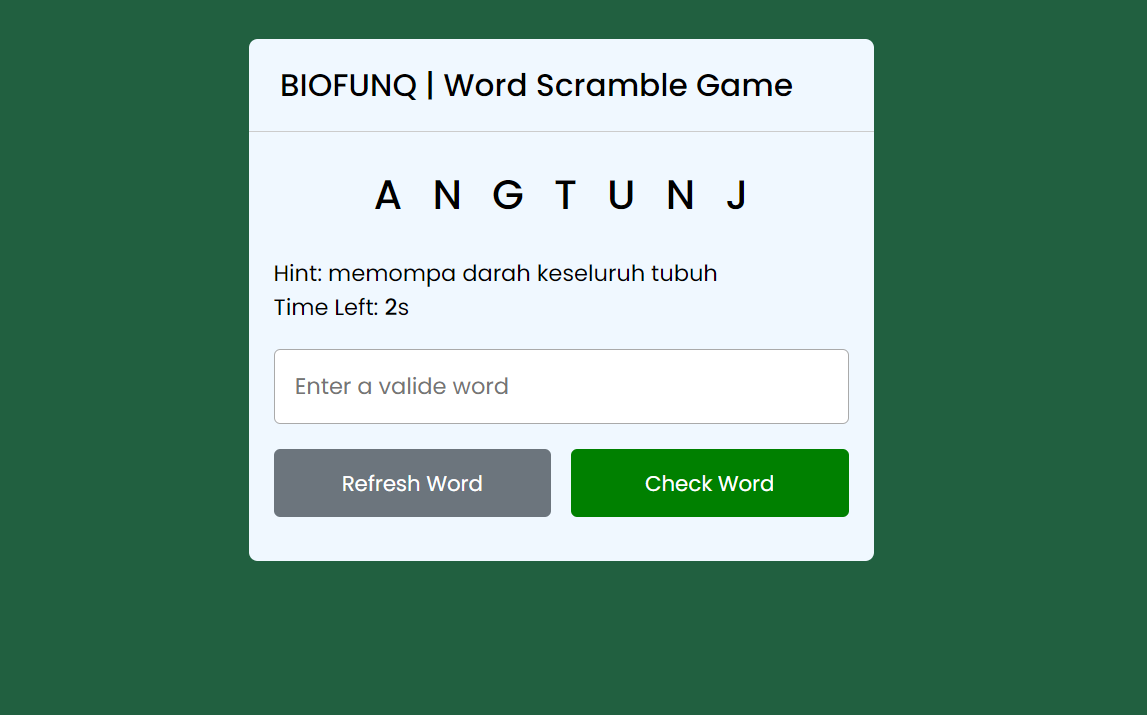
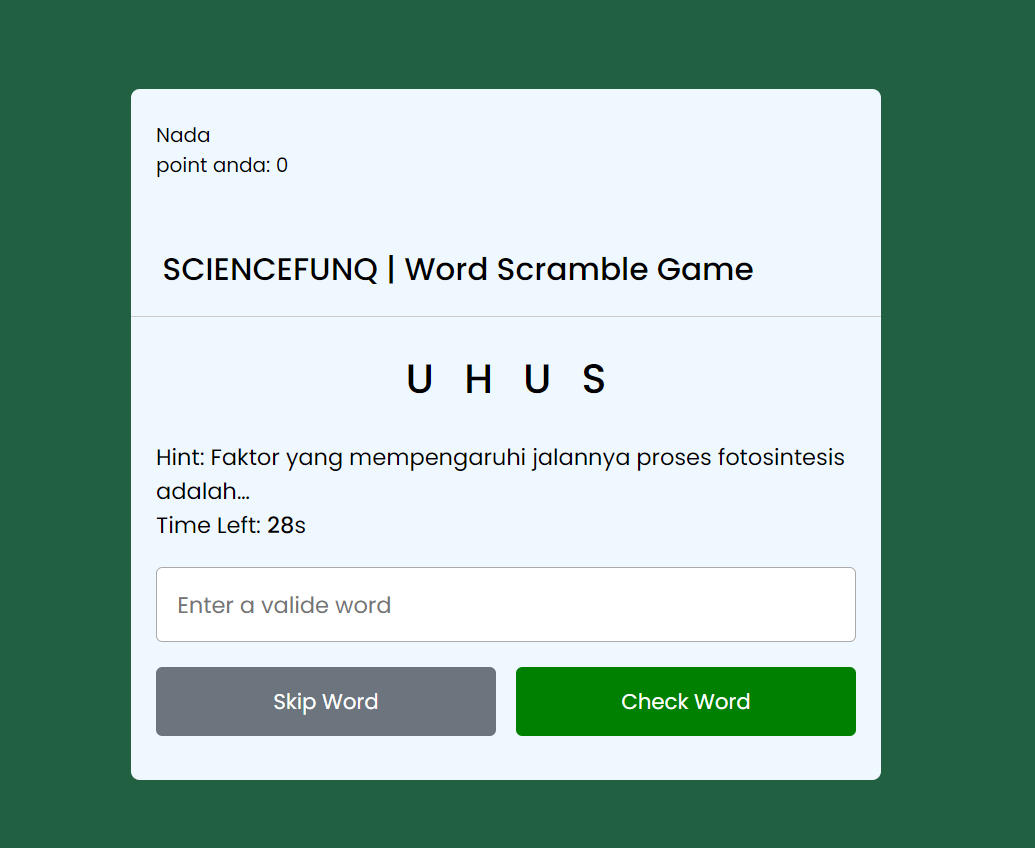
Update FrontEnd

diff --git a/public/css/game.css b/public/css/game.css
@@ -16,7 +16,7 @@ body{
 }
 
 .contaner {
-    width: 500px;
+    width: 600px;
     border-radius: 7px;
     background-color: aliceblue
     

diff --git a/resources/views/home.blade.php b/resources/views/home.blade.php
@@ -11,7 +11,7 @@
                     <img src="/img/logo.png" alt="" width="30%">
                 </div>
                 <div class="desk2">
-                    <p>Selamat datang di BioFunQ (Biology Fun Quizee) aplikasi pembelajaran interaktif berbasis website yang menyediakan berbagai macam game puzzel untuk mengasah pengetahuan mu seputar ilmu biologi. </p>
+                    <p>Selamat datang di SCIENCEFUNQ (Science Fun Quizee) aplikasi pembelajaran interaktif berbasis website yang menyediakan berbagai macam game puzzel untuk mengasah pengetahuan mu seputar ilmu biologi. </p>
                     <!-- Button trigger modal -->
                     <button type="button" class="btn btn-primary" data-bs-toggle="modal" data-bs-target="#exampleModal">
                         Cara Main
@@ -27,9 +27,9 @@
                                 </div>
                                 <div class="modal-body">
                                     <h4>Step 1</h4>
-                                    <p>Untuk bermain dalam website BIOFUNQ, hal pertama yang harus dilakukan adalah memiliki sebuah akun jika anda belum meiliki sebuah akun maka anda dapat membuat akun dengan cara mengklik tombol login pada bagian pojok kanan atas.</p>
-                                    <p>Setelah di klik maka anda akan langsung disuruh untuk melakukan login, Kita lewatkan saja bagian login ini dan langsung mengarah ke bagian bawah. Dalam website BIOFUNQ kami menerima 2 metode pendaftaran, yaitu Google dan Facebook</p>
-                                    <p>Pilihlah salah satu metode pendaftaran untuk mendafarkan diri anda dalam website BIOFUNQ. Dan bagi kalian yang sudah memiliki sebuah akun maka kalian langsung dapat melakukan login dengan cara yang sama.</p>
+                                    <p>Untuk bermain dalam website SCIENCEFUNQ, hal pertama yang harus dilakukan adalah memiliki sebuah akun jika anda belum meiliki sebuah akun maka anda dapat membuat akun dengan cara mengklik tombol login pada bagian pojok kanan atas.</p>
+                                    <p>Setelah di klik maka anda akan langsung disuruh untuk melakukan login, Kita lewatkan saja bagian login ini dan langsung mengarah ke bagian bawah. Dalam website SCIENCEFUNQ kami menerima 2 metode pendaftaran, yaitu Google dan Facebook</p>
+                                    <p>Pilihlah salah satu metode pendaftaran untuk mendafarkan diri anda dalam website SCIENCEFUNQ. Dan bagi kalian yang sudah memiliki sebuah akun maka kalian langsung dapat melakukan login dengan cara yang sama.</p>
                                     <hr>
                                     <h4>Step 2</h4>
                                     <p>Jika sudah melakukan registrasi dan login, selanjutnya kalian dapat memilih permainan yang ingin kalian mainkan di website ini kami dalam website ini kami menyediakan dua buah permainan, yaitu word scramble dan Teka Teki Silang.</p>

diff --git a/resources/views/bgame.blade.php b/resources/views/bgame.blade.php
@@ -11,7 +11,7 @@
         </div>
 
         <div class="desk2">
-          <p>Selamat datang di BioFunQ (Biology Fun Quizee) aplikasi pembelejaran interaktif berbasis website yang menyediakan berbagai macam game puzzel untuk mengasah pengetahuan mu seputar ilmu biologi. </p>
+          <p>Selamat datang di SCIENCEFUNQ (Science Fun Quizee) aplikasi pembelejaran interaktif berbasis website yang menyediakan berbagai macam game puzzel untuk mengasah pengetahuan mu seputar ilmu biologi. </p>
         </div>
 
         <div class="desk3">
@@ -42,7 +42,7 @@
                 </label>
               </div>
               <div class="form-check">
-                <input class="form-check-input" type="radio" name="soal" id="kim_7" value="kim_7" checked>
+                <input class="form-check-input" type="radio" name="soal" id="kim_7" value="kim_7">
                 <label class="form-check-label" for="flexRadioDefault1">
                   Kimia (Kelas 7)
                 </label>
@@ -60,7 +60,7 @@
                 </label>
               </div>
               <div class="form-check">
-                <input class="form-check-input" type="radio" name="soal" id="fis_7" value="fis_7" checked>
+                <input class="form-check-input" type="radio" name="soal" id="fis_7" value="fis_7">
                 <label class="form-check-label" for="flexRadioDefault1">
                   Fisika (Kelas 7)
                 </label>

diff --git a/resources/views/register.blade.php b/resources/views/register.blade.php
@@ -10,7 +10,7 @@
                     <img src="img/logo.png" alt="" width="30%">
                 </div>
                 <div class="desk2">
-                    <p>Selamat datang di BioFunQ (Biology Fun Quizee) aplikasi pembelejaran interaktif berbasis website yang menyediakan berbagai macam game puzzel untuk mengasah pengetahuan mu seputar ilmu biologi. </p>
+                    <p>Selamat datang di SCIENCEFUNQ (Science Fun Quizee) aplikasi pembelejaran interaktif berbasis website yang menyediakan berbagai macam game puzzel untuk mengasah pengetahuan mu seputar ilmu biologi. </p>
                 </div>
                 <div class="desk3">
                     <h2>Registration form</h2>

diff --git a/resources/views/login.blade.php b/resources/views/login.blade.php
@@ -29,7 +29,7 @@
           <img src="img/logo.png" alt="" width="30%">
         </div>
         <div class="desk2">
-          <p>Selamat datang di BioFunQ (Biology Fun Quizee) aplikasi pembelejaran interaktif berbasis website yang menyediakan berbagai macam game puzzel untuk mengasah pengetahuan mu seputar ilmu biologi. </p>
+          <p>Selamat datang di SCIENCEFUNQ (Science Fun Quizee) aplikasi pembelejaran interaktif berbasis website yang menyediakan berbagai macam game puzzel untuk mengasah pengetahuan mu seputar ilmu biologi. </p>
         </div>
         <div class="desk3">
           <h2>Login</h2>

diff --git a/resources/views/gamep.blade.php b/resources/views/gamep.blade.php
@@ -5,7 +5,7 @@
     <meta charset="UTF-8">
     <meta http-equiv="X-UA-Compatible" content="IE=edge">
     <meta name="viewport" content="width=device-width, initial-scale=1.0">
-    <title>BioFunQ | {{ $title }}</title>
+    <title>SCIENCEFUNQ | {{ $title }}</title>
     <link rel="stylesheet" href="css/game.css">
 
 </head>
@@ -22,7 +22,7 @@
             </div>
         </div>
 
-        <h2> BIOFUNQ | Word Scramble Game</h2>
+        <h2> SCIENCEFUNQ | Word Scramble Game</h2>
         <div class="content">
             <p class="word"></p>
             <div class="details">

diff --git a/resources/views/layouts/main.blade.php b/resources/views/layouts/main.blade.php
@@ -4,7 +4,7 @@
 <head>
     <meta charset="utf-8">
     <meta name="viewport" content="width=device-width, initial-scale=1">
-    <title>BioFunQ | {{ $title }}</title>
+    <title>SCIENCEFUNQ | {{ $title }}</title>
     <link rel="stylesheet" href="/css/style.css">
     <link rel="stylesheet" href="/css/login.css">
     <link href="https://cdn.jsdelivr.net/npm/bootstrap@5.2.3/dist/css/bootstrap.min.css" rel="stylesheet" integrity="sha384-rbsA2VBKQhggwzxH7pPCaAqO46MgnOM80zW1RWuH61DGLwZJEdK2Kadq2F9CUG65" crossorigin="anonymous">

diff --git a/resources/views/partials/header.blade.php b/resources/views/partials/header.blade.php
@@ -1,7 +1,7 @@
 <header>
     <nav class="navbar">
         <div class="container-fluid">
-            <a class="navbar-brand" href="/">BioFunQ</a>
+            <a class="navbar-brand" href="/">ScienceFunQ</a>
             @auth
             <div class="nav-item dropdown">
                 <a class="nav-link dropdown-toggle" href="#" id="navbarDropdown" role="button" data-bs-toggle="dropdown" aria-expanded="false">
